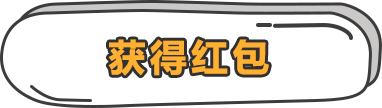
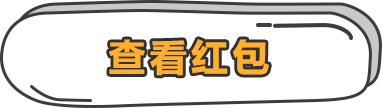
双旦活动

Changed region(s): [[0.2592, 0.3333, 0.5183, 0.75]]

diff --git a/activity_01.html b/activity_01.html
@@ -16,12 +16,17 @@
     <div class="part_04">
         <div class="bottom">
             <div class="btn">
-                <a href=""></a>
             </div>
             <p>注：“终结者有礼”活动长期有效，红包可重复获得
                 <br>红包具体使用请查看红包说明</p>
             <p>以上活动鑫路金融保留法律范围内的解释权</p>
         </div>
+    </div>
+    <div class="mask">
+    </div>
+    <div class="active">
+    </div>
+    <div class="close_btn">
     </div>
 </body>
 
@@ -29,5 +34,17 @@
 <script>
     var phoneScale = parseInt(window.screen.width) / 750;
     document.write('<meta name="viewport" content="width=750, minimum-scale = ' + phoneScale + ', maximum-scale = ' +
-        phoneScale + ', target-densitydpi=device-dpi">');
+        phoneScale +',target-densitydpi=device-dpi">');
+
+    $(".btn").click( function () {
+        $(".mask").show();
+        $(".active").show();
+        $(".close_btn").show();
+    })
+
+     $(".close_btn").click(function(){
+        $(".mask").hide();
+        $(".active").hide();
+        $(".close_btn").hide();
+     })
 </script>

diff --git a/css/activity_02.css b/css/activity_02.css
@@ -1,0 +1,65 @@
+html,body{
+    height: 100%;
+    margin: 0;
+    padding: 0;
+}
+
+p{
+    margin: 0;
+}
+
+a{
+    color:#333;
+    text-decoration: none;
+}
+
+ul,li,p,h1,h2,h3,h4,h5,h6,dt,dd{
+    margin:0;
+    padding:0;
+    list-style:none;
+}
+
+.clearfloat:after{
+    display:block;
+    clear:both;
+    content:'';
+    visibility:hidden;
+    height:0
+    }
+.clearfloat{
+    zoom:1
+}
+
+.part_01,
+.part_02,
+.part_03,
+.part_04,
+.part_05{
+    width: 750px;
+    margin: 0 auto;
+}
+
+.part_01{
+    height: 400px;
+    background: url("../images/activity_02/img_01.png") center no-repeat;
+}
+
+.part_02{
+    height: 341px;
+    background: #268175 url("../images/activity_02/img_02.png") center no-repeat;
+}
+
+.part_03{
+    height: 982px;
+    background: #268175 url("../images/activity_02/img_03.png") center no-repeat;
+}
+
+.part_04{
+    height: 1092px;
+    background: #268175 url("../images/activity_02/img_04.png") center no-repeat;
+}
+
+.part_05{
+    height: 697px;
+    background: #268175 url("../images/activity_02/img_05.png") center no-repeat;
+}

diff --git a/css/activity_01.css b/css/activity_01.css
@@ -69,7 +69,7 @@ ul,li,p,h1,h2,h3,h4,h5,h6,dt,dd{
     position: relative;
 }
 
-.btn>a{
+.btn{
     top: 20px;
     display: block;
     width: 522px;
@@ -92,3 +92,41 @@ ul,li,p,h1,h2,h3,h4,h5,h6,dt,dd{
     position: relative;
     letter-spacing: 2px;
 }
+
+.mask{
+    width: 750px;
+    height: 100%;
+    background: #666;
+    opacity: 0.5;
+}
+
+.mask,
+.active,
+.close_btn{
+    top: 0px;
+    left: 0px;
+    right: 0px;
+    bottom: 0px;
+    z-index: 9999;
+    position: fixed;
+    display: none;
+}
+
+
+.active{
+    top: 25%;
+    width: 659px;
+    height: 594px;
+    margin: 0 auto;
+    background: url("../images/activity_01/img_06.png") center no-repeat;
+}
+
+.close_btn{
+    width: 70px;
+    height: 70px;
+    margin: 0 auto;
+    top: 80%;
+    background: url("../images/activity_01/img_07.png") center no-repeat;
+}
+
+

diff --git a/activity_02.html b/activity_02.html
@@ -1,0 +1,22 @@
+<!DOCTYPE html>
+<html lang="zh-CN">
+<head>
+    <meta charset="utf-8">
+    <title>圣诞活动</title>
+    <link rel="stylesheet" href="css/activity_02.css">
+    <link rel="shortcut icon" type="image/x-icon" href="http://xlstyle.oss-cn-hangzhou.aliyuncs.com/xinlu-h5/images/xinlu-icon.ico">
+    <script src="https://cdn.bootcss.com/jquery/1.10.1/jquery.min.js"></script>
+</head>
+<body>
+    <div class="part_01"></div>
+    <div class="part_02"></div>
+    <div class="part_03"></div>
+    <div class="part_04"></div>
+    <div class="part_05"></div>
+</body>
+</html>
+<script>
+    var phoneScale = parseInt(window.screen.width) / 750;
+    document.write('<meta name="viewport" content="width=750, minimum-scale = ' + phoneScale + ', maximum-scale = ' +
+        phoneScale +',target-densitydpi=device-dpi">');
+</script>

diff --git a/css/expand.css b/css/expand.css
@@ -517,7 +517,7 @@ input[type="checkbox"] {
 .mask{
     width: 750px;
     height: 100%;
-    background: #666;
+    background: #000;
     opacity: 0.5;
 }
 
